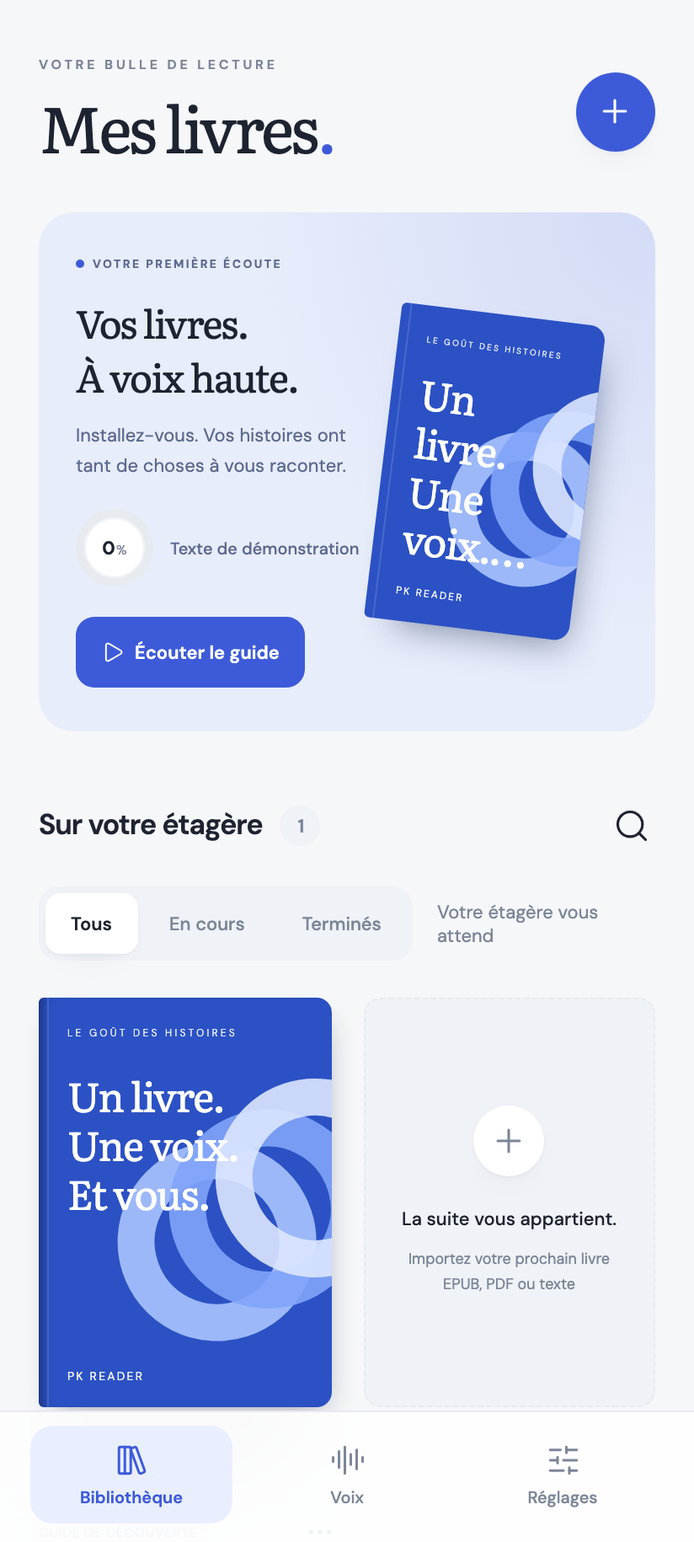
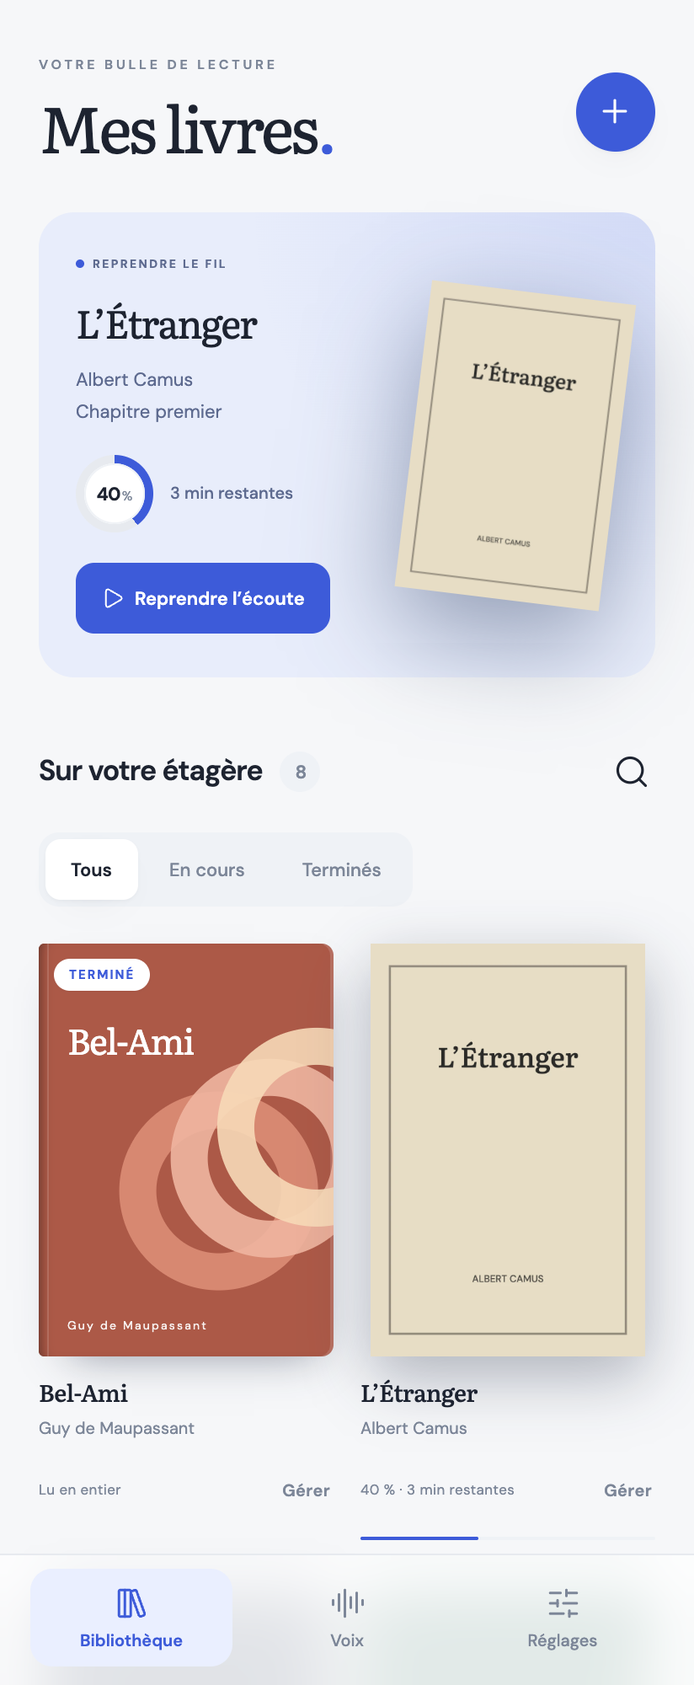
REFACTO: redessiner la bibliotheque et les couvertures importees

diff --git a/store/website/index.html b/store/website/index.html
@@ -13,7 +13,7 @@
 <nav class="nav"><a class="brand" href="#top"><img src="assets/icon.png" alt=""><span>PK Voice Cloner</span></a><div class="navlinks"><a href="#studio"><span class="fr">Le studio</span><span class="en">The studio</span></a><a href="#local"><span class="fr">Confidentialité</span><span class="en">Privacy</span></a><a href="#install"><span class="fr">Installation</span><span class="en">Install</span></a><a href="https://ko-fi.com/pouark" style="color:#b03a3a;font-weight:650">❤ <span class="fr">Soutenir sur Ko-fi</span><span class="en">Support on Ko-fi</span></a><button class="lang" type="button" data-lang="fr" aria-label="Français" aria-pressed="false">FR</button><button class="lang" type="button" data-lang="en" aria-label="English" aria-pressed="false">EN</button></div></nav>
 <main id="top"><header class="hero"><div class="eyebrow">macOS · Apple Silicon · Open source</div><h1><span class="fr">Ta voix.<br>À toi. En local.</span><span class="en">Your voice.<br>Yours. Local.</span></h1><p class="intro"><span class="fr">Enregistre ou importe une voix, écris ton texte, puis écoute le résultat. Le traitement s’effectue sur ton Mac.</span><span class="en">Record or import a voice, write your text, then listen. Processing runs on your Mac.</span></p><div class="actions"><a class="button" href="https://github.com/mondary/Macos_PKvoicecloner/releases/latest/download/PKVoiceCloner-2026.10.45.dmg"><span class="fr">Télécharger le DMG · v2026.10.45</span><span class="en">Download DMG · v2026.10.45</span> ↗</a><a class="button secondary" href="https://github.com/mondary/Macos_PKvoicecloner"><span class="fr">Voir le projet</span><span class="en">Explore the project</span></a></div><p class="note"><span class="fr">Apple Silicon · macOS 14+ · Le DMG v2026.10.45 contient l’app seule : son installation nécessite le dépôt et l’environnement Python. Voir la procédure ci-dessous.</span><span class="en">Apple Silicon · macOS 14+ · The v2026.10.45 DMG contains the app only; it requires the project checkout and Python environment. See setup below.</span></p><div class="demo"><img src="gifs/demo-large-1200.gif" alt="Démonstration du studio : bibliothèque vocale, génération et lecture du résultat" fetchpriority="high"></div></header>
 <section class="section" id="studio"><div class="section-head"><div class="overline"><span class="fr">Un studio, pas un service cloud</span><span class="en">A studio, not a cloud service</span></div><h2><span class="fr">De l’enregistrement à la voix générée.</span><span class="en">From recording to generated speech.</span></h2><p><span class="fr">Les étapes essentielles dans une interface macOS : bibliothèque vocale, textes, moteurs et génération.</span><span class="en">The essentials in a macOS interface: voice library, texts, engines and generation.</span></p></div><div class="features"><article class="feature"><b><span class="fr">Importe ou enregistre</span><span class="en">Import or record</span></b><p><span class="fr">Ajoute un fichier audio ou enregistre au micro.</span><span class="en">Add an audio file or record from your mic.</span></p></article><article class="feature"><b><span class="fr">Transcris et ajuste</span><span class="en">Transcribe and edit</span></b><p><span class="fr">Relis le texte reconnu avant de l’utiliser.</span><span class="en">Review the recognized text before using it.</span></p></article><article class="feature"><b><span class="fr">Choisis un moteur</span><span class="en">Choose an engine</span></b><p><span class="fr">Installe et sélectionne les modèles compatibles depuis le studio.</span><span class="en">Install and select supported models in the studio.</span></p></article><article class="feature"><b><span class="fr">Lire au fil de l’eau</span><span class="en">Live reading</span></b><p><span class="fr">Le bouton Lire fait entendre chaque phrase dès qu’elle est prête ; Générer produit la prise complète, exportable.</span><span class="en">One button plays each sentence as soon as it is ready; Generate produces the full, exportable take.</span></p></article></div><div class="screens"><figure><img src="screenshots/voix-reference@2x.png" alt="Bibliothèque de voix et référence audio" loading="lazy"><figcaption><span class="fr">Bibliothèque de voix</span><span class="en">Voice library</span></figcaption></figure><figure><img src="screenshots/generation-resultat@2x.png" alt="Texte, réglages de génération et lecteur audio" loading="lazy"><figcaption><span class="fr">Génération et écoute</span><span class="en">Generation and playback</span></figcaption></figure></div></section>
-<section class="section" id="reader"><div class="section-head"><div class="overline"><span class="fr">PK Reader · Android · 2026.10.73</span><span class="en">PK Reader · Android · 2026.10.73</span></div><h2><span class="fr">Un personnage. Une voix. C’est tout.</span><span class="en">One character. One voice. That’s all.</span></h2><p><span class="fr">Importe ton livre : les locuteurs sont repérés à partir d’indices de dialogue — incises, annonces, échanges nommés. Vérifie les passages attribués, puis valide les voix proposées. Sans Mac ni réseau.</span><span class="en">Import your book: speakers are identified from dialogue cues — attribution clauses, announcements, named exchanges. Review the assigned passages, then confirm the proposed voices. No Mac, no network.</span></p></div><div class="features"><article class="feature"><b><span class="fr">Tout préparer en un bouton</span><span class="en">One button prepares everything</span></b><p><span class="fr">« Préparer le livre audio » enchaîne l’analyse des personnages, le téléchargement des voix manquantes et la mise en cache du livre — dix voix françaises, dont une à 13 Mo.</span><span class="en">“Prepare the audiobook” chains character analysis, missing-voice downloads and offline caching — ten French voices, one of them 13 MB.</span></p></article><article class="feature"><b><span class="fr">Analyse IA sans Mac</span><span class="en">AI analysis without a Mac</span></b><p><span class="fr">Branchez votre fournisseur IA dans Réglages : le téléphone identifie les personnages, attribue les répliques puis relit les passages incertains. Sans configuration, le repérage local reste disponible.</span><span class="en">Connect your AI provider in Settings: the phone identifies characters, assigns lines and then reviews uncertain passages. Without configuration, local detection remains available.</span></p></article><article class="feature"><b><span class="fr">Des preuves de parole, pas des majuscules</span><span class="en">Speech evidence, not capital letters</span></b><p><span class="fr">Une majuscule ou un mot suivi de deux-points ne crée pas un personnage. Chaque rôle affiche un passage attribué à vérifier ; les passages incertains restent au narrateur.</span><span class="en">A capital letter or a word followed by a colon does not create a character. Each role shows an assigned passage to review; uncertain passages stay with the narrator.</span></p></article><article class="feature"><b><span class="fr">Les voix qui manquent</span><span class="en">The voices you need</span></b><p><span class="fr">Le bilan indique les timbres manquants et propose les téléchargements Piper disponibles. Tes choix manuels sont conservés.</span><span class="en">A summary lists missing timbres and offers available Piper downloads. Your manual choices are preserved.</span></p></article></div><p class="note"><span class="fr">Le repérage local reste heuristique : les dialogues ambigus peuvent rester au narrateur. L’analyse peut tourner dans le téléphone avec votre propre fournisseur IA, sans Mac. Mise à jour depuis l’app (Réglages → Mises à jour). APK de test, hors Google Play.</span><span class="en">Local detection stays rule-based: ambiguous dialogue may remain with the narrator. Analysis can run inside the phone with your own AI provider, no Mac. In-app updates (Settings → Updates). Testing APK, not on Google Play.</span></p></section>
+<section class="section" id="reader"><div class="section-head"><div class="overline"><span class="fr">PK Reader · Android · 2026.10.74</span><span class="en">PK Reader · Android · 2026.10.74</span></div><h2><span class="fr">Un personnage. Une voix. C’est tout.</span><span class="en">One character. One voice. That’s all.</span></h2><p><span class="fr">Importe ton livre : les locuteurs sont repérés à partir d’indices de dialogue — incises, annonces, échanges nommés. Vérifie les passages attribués, puis valide les voix proposées. Sans Mac ni réseau.</span><span class="en">Import your book: speakers are identified from dialogue cues — attribution clauses, announcements, named exchanges. Review the assigned passages, then confirm the proposed voices. No Mac, no network.</span></p></div><div class="features"><article class="feature"><b><span class="fr">Tout préparer en un bouton</span><span class="en">One button prepares everything</span></b><p><span class="fr">« Préparer le livre audio » enchaîne l’analyse des personnages, le téléchargement des voix manquantes et la mise en cache du livre — dix voix françaises, dont une à 13 Mo.</span><span class="en">“Prepare the audiobook” chains character analysis, missing-voice downloads and offline caching — ten French voices, one of them 13 MB.</span></p></article><article class="feature"><b><span class="fr">Analyse IA sans Mac</span><span class="en">AI analysis without a Mac</span></b><p><span class="fr">Branchez votre fournisseur IA dans Réglages : le téléphone identifie les personnages, attribue les répliques puis relit les passages incertains. Sans configuration, le repérage local reste disponible.</span><span class="en">Connect your AI provider in Settings: the phone identifies characters, assigns lines and then reviews uncertain passages. Without configuration, local detection remains available.</span></p></article><article class="feature"><b><span class="fr">Des preuves de parole, pas des majuscules</span><span class="en">Speech evidence, not capital letters</span></b><p><span class="fr">Une majuscule ou un mot suivi de deux-points ne crée pas un personnage. Chaque rôle affiche un passage attribué à vérifier ; les passages incertains restent au narrateur.</span><span class="en">A capital letter or a word followed by a colon does not create a character. Each role shows an assigned passage to review; uncertain passages stay with the narrator.</span></p></article><article class="feature"><b><span class="fr">Les voix qui manquent</span><span class="en">The voices you need</span></b><p><span class="fr">Le bilan indique les timbres manquants et propose les téléchargements Piper disponibles. Tes choix manuels sont conservés.</span><span class="en">A summary lists missing timbres and offers available Piper downloads. Your manual choices are preserved.</span></p></article></div><p class="note"><span class="fr">Le repérage local reste heuristique : les dialogues ambigus peuvent rester au narrateur. L’analyse peut tourner dans le téléphone avec votre propre fournisseur IA, sans Mac. Mise à jour depuis l’app (Réglages → Mises à jour). APK de test, hors Google Play.</span><span class="en">Local detection stays rule-based: ambiguous dialogue may remain with the narrator. Analysis can run inside the phone with your own AI provider, no Mac. In-app updates (Settings → Updates). Testing APK, not on Google Play.</span></p></section>
 <section class="section" id="local"><div class="privacy"><h2><span class="fr">Ta voix reste sur ton Mac.</span><span class="en">Your voice stays on your Mac.</span></h2><p><span class="fr">Les modèles s’exécutent localement sur Apple Silicon. Les poids nécessaires sont téléchargés lors de l’installation ou du premier usage ; ensuite, génération et bibliothèque restent locales. Utilise uniquement une voix avec le consentement de la personne concernée.</span><span class="en">Models run locally on Apple Silicon. Required model weights are downloaded during setup or first use; afterward, generation and the library stay local. Only use a voice with the speaker’s consent.</span></p></div></section>
 <section class="section" id="install"><div class="install"><div><div class="overline"><span class="fr">Installation vérifiée</span><span class="en">Verified setup</span></div><h2><span class="fr">Télécharge le projet et lance l’installation.</span><span class="en">Get the project and run setup.</span></h2><p><span class="fr">Le DMG publié actuellement n’est pas autonome : l’app cherche le dépôt et son environnement Python sur la machine. Cette commande prépare ces éléments et construit l’app.</span><span class="en">The currently published DMG is not standalone: the app expects the project checkout and Python environment on the machine. This command sets those up and builds the app.</span></p><a href="https://github.com/mondary/Macos_PKvoicecloner/releases" style="text-decoration:underline"><span class="fr">Voir les fichiers de la release</span><span class="en">View release assets</span></a></div><div class="installbox"><code id="command">curl -fsSL https://raw.githubusercontent.com/mondary/Macos_PKvoicecloner/main/install.sh | sh</code><button class="button" id="copy" type="button"><span class="fr">Copier la commande</span><span class="en">Copy command</span></button><p class="warn"><span class="fr">Homebrew : le cask <code>mondary/tap/pk-voice-cloner</code> existe, mais installe ce même DMG non autonome. Nous ne le présentons pas comme une installation fonctionnelle tant que le paquet n’est pas corrigé.</span><span class="en">Homebrew: the <code>mondary/tap/pk-voice-cloner</code> cask exists, but installs the same non-standalone DMG. We cannot present it as a working install until the package is fixed.</span></p></div></div></section>
 </main><footer class="foot"><span>PK Voice Cloner · <span class="fr">Studio vocal local pour macOS</span><span class="en">Local voice studio for macOS</span></span><span><a href="https://github.com/mondary/Macos_PKvoicecloner">GitHub</a> · <a href="https://ko-fi.com/pouark"><span class="fr">Soutenir sur Ko-fi</span><span class="en">Support on Ko-fi</span></a> · <span class="fr">Utilise une voix avec consentement.</span><span class="en">Use voices with consent.</span></span></footer>

diff --git a/src/mobile/style.css b/src/mobile/style.css
@@ -176,8 +176,11 @@ h1, h2, h3, p { margin: 0; }
 .book-cover {
   height: 230px; aspect-ratio: 2 / 3; overflow: hidden; position: relative;
   display: flex; flex-direction: column; align-items: flex-start; padding: 20px 20px 17px;
-  color: #fff; border-radius: 3px 9px 9px 3px; text-align: left;
-  box-shadow: inset 6px 0 7px -5px rgba(0, 0, 0, 0.5), 3px 8px 18px -8px rgba(23, 33, 58, 0.42);
+  color: #fff; border-radius: 3px 7px 7px 3px; text-align: left;
+  box-shadow:
+    inset 6px 0 7px -5px rgba(0, 0, 0, 0.45),
+    inset -2px 0 0 rgba(255, 255, 255, 0.14),
+    4px 12px 26px -14px rgba(23, 33, 58, 0.5);
   background: #254dcc; transition: transform 0.28s cubic-bezier(0.22, 0.61, 0.36, 1), box-shadow 0.28s ease;
 }
 .book-cover::after { content: ''; position: absolute; left: 5px; top: 0; bottom: 0; width: 1px; background: rgba(255, 255, 255, 0.14); }
@@ -205,9 +208,20 @@ h1, h2, h3, p { margin: 0; }
 .cover-4 .cover-art b { border-color: #dc8d76; }
 .cover-4 .cover-art b:nth-child(2) { border-color: #efb5a0; }
 .cover-4 .cover-art b:nth-child(3) { border-color: #f7d9b7; }
-.image-cover { padding: 0; background: var(--surface, #fff); }
-.image-cover img { width: 100%; height: 100%; object-fit: contain; background: var(--surface, #fff); }
+.image-cover {
+  padding: 0; background: transparent; overflow: visible;
+  border-radius: 2px; box-shadow: none;
+}
+.image-cover::after { display: none; }
+.image-cover img {
+  display: block; position: absolute; inset: 0; width: 100%; height: 100%; object-fit: contain;
+  border-radius: 2px; background: transparent;
+  filter: drop-shadow(0 12px 18px rgba(23, 33, 58, 0.32));
+  transition: transform 0.28s cubic-bezier(0.22, 0.61, 0.36, 1), filter 0.28s ease;
+}
 .hero-cover { height: 258px; box-shadow: 14px 20px 34px -14px rgba(36, 54, 91, 0.55); }
+.hero-cover.image-cover { box-shadow: none; }
+.hero-cover.image-cover img { filter: drop-shadow(0 22px 30px rgba(36, 54, 91, 0.45)); }
 .hero-cover .cover-title { font-size: 29px; }
 .hero-cover .cover-art { bottom: 42px; }
 
@@ -223,27 +237,35 @@ h1, h2, h3, p { margin: 0; }
 .segmented button.active { background: var(--surface); color: var(--ink); box-shadow: var(--shadow-1); font-weight: 600; }
 .library-count { font-size: 11px; color: var(--muted); }
 
-.books-grid { display: grid; grid-template-columns: repeat(auto-fill, minmax(150px, 1fr)); gap: 32px 26px; }
+.books-grid { display: grid; grid-template-columns: repeat(auto-fill, minmax(168px, 1fr)); gap: 40px 28px; align-items: start; }
 @keyframes rise { from { opacity: 0; transform: translateY(12px); } }
 .book-item { min-width: 0; position: relative; animation: rise 0.5s cubic-bezier(0.22, 0.61, 0.36, 1) both; animation-delay: calc(var(--i, 0) * 45ms); }
 .book-open { text-align: left; padding: 0; width: 100%; }
-.book-open .book-cover { width: 100%; height: auto; max-height: 300px; min-height: 216px; }
-.book-open:hover .book-cover { transform: translateY(-4px); box-shadow: inset 6px 0 7px -5px rgba(0, 0, 0, 0.5), 5px 16px 26px -12px rgba(23, 33, 58, 0.5); }
-.book-open > strong { display: block; font-size: 13px; font-weight: 600; margin-top: 14px; line-height: 1.5; white-space: nowrap; overflow: hidden; text-overflow: ellipsis; }
-.book-open > span { display: block; font-size: 11px; color: var(--muted); margin-top: 4px; white-space: nowrap; overflow: hidden; text-overflow: ellipsis; }
-.book-flag { position: absolute; top: 10px; left: -6px; z-index: 2; background: var(--surface); color: var(--accent); font-size: 8px; font-weight: 700; letter-spacing: 0.8px; text-transform: uppercase; padding: 5px 8px; border-radius: 7px; box-shadow: var(--shadow-1); }
-.book-bottom { display: flex; align-items: center; justify-content: space-between; gap: 3px; margin-top: 4px; }
-.book-bottom > span { font-size: 9px; color: var(--muted); letter-spacing: 0.3px; font-variant-numeric: tabular-nums; }
+.book-open .book-cover { width: 100%; height: auto; max-height: 320px; min-height: 246px; }
+.book-open:hover .book-cover { transform: translateY(-5px); box-shadow: inset 6px 0 7px -5px rgba(0, 0, 0, 0.45), inset -2px 0 0 rgba(255, 255, 255, 0.14), 8px 22px 34px -16px rgba(23, 33, 58, 0.58); }
+.book-open:hover .image-cover { transform: none; box-shadow: none; }
+.book-open:hover .image-cover img { transform: translateY(-5px); filter: drop-shadow(0 20px 28px rgba(23, 33, 58, 0.42)); }
+.book-open > strong { display: -webkit-box; -webkit-line-clamp: 2; -webkit-box-orient: vertical; overflow: hidden; font-family: 'Literata', serif; font-size: 15px; font-weight: 500; letter-spacing: -0.25px; margin-top: 15px; line-height: 1.38; transition: color 0.18s; }
+.book-open:hover > strong { color: var(--accent); }
+.book-open > span { display: block; font-size: 10.5px; color: var(--muted); margin-top: 5px; white-space: nowrap; overflow: hidden; text-overflow: ellipsis; }
+.book-flag { position: absolute; top: 9px; left: 9px; z-index: 2; background: var(--surface); color: var(--accent); font-size: 7.5px; font-weight: 700; letter-spacing: 1px; text-transform: uppercase; padding: 5px 9px; border-radius: 999px; box-shadow: var(--shadow-1); }
+.book-bottom { display: flex; align-items: center; justify-content: space-between; gap: 8px; margin-top: 7px; }
+.book-bottom > span { font-size: 9.5px; color: var(--muted); letter-spacing: 0.2px; font-variant-numeric: tabular-nums; white-space: nowrap; overflow: hidden; text-overflow: ellipsis; }
 .book-bottom .icon-button { width: 32px; height: 36px; margin-right: -9px; }
-.book-bottom .book-manage { margin-right: -4px; }
+.book-bottom .book-manage { flex: none; margin-right: -6px; padding: 5px 7px; border-color: transparent; background: transparent; color: var(--muted); font-size: 10px; letter-spacing: 0.2px; border-radius: 8px; }
+.book-bottom .book-manage:hover { background: var(--accent-soft); color: var(--accent); }
 .book-bottom svg { width: 18px; }
-.book-progress { height: 3px; background: var(--line); border-radius: 4px; overflow: hidden; margin-top: 6px; }
-.book-progress span { display: block; height: 100%; background: var(--accent); border-radius: 4px; }
-.import-tile { border: 1px dashed var(--line); border-radius: var(--radius-1); display: flex; flex-direction: column; align-items: center; justify-content: center; align-self: start; min-height: 216px; aspect-ratio: 2 / 3; max-height: 300px; padding: 18px; text-align: center; background: var(--line-soft); width: 100%; }
-.import-tile > span { width: 42px; height: 42px; display: grid; place-items: center; background: var(--surface); border-radius: 50%; margin-bottom: 17px; color: var(--muted); box-shadow: var(--shadow-1); }
-.import-tile strong { font-size: 12px; font-weight: 500; line-height: 1.6; }
-.import-tile small { font-size: 10px; line-height: 1.7; color: var(--muted); margin-top: 7px; }
-.empty-state { padding: 30px 0; color: var(--muted); font-size: 14px; }
+.book-progress { height: 2px; background: var(--line-soft); border-radius: 999px; overflow: hidden; margin-top: 8px; }
+.book-progress span { display: block; height: 100%; background: var(--accent); border-radius: 999px; transition: width 0.5s cubic-bezier(0.22, 0.61, 0.36, 1); }
+.import-tile { border: 1px dashed var(--line); border-radius: var(--radius-1); display: flex; flex-direction: column; align-items: center; justify-content: center; align-self: start; min-height: 246px; aspect-ratio: 2 / 3; max-height: 320px; padding: 18px; text-align: center; width: 100%; background: linear-gradient(180deg, var(--line-soft), transparent 72%); transition: transform 0.28s cubic-bezier(0.22, 0.61, 0.36, 1), border-color 0.18s, background 0.18s; }
+.import-tile:hover { transform: translateY(-4px); border-color: var(--accent); background: linear-gradient(180deg, var(--accent-soft), transparent 72%); }
+.import-tile > span { width: 44px; height: 44px; display: grid; place-items: center; background: var(--surface); border-radius: 50%; margin-bottom: 17px; color: var(--accent); box-shadow: var(--shadow-1); }
+.import-tile strong { font-family: 'Literata', serif; font-size: 14px; font-weight: 500; line-height: 1.45; letter-spacing: -0.2px; }
+.import-tile small { font-size: 10px; line-height: 1.7; color: var(--muted); margin-top: 8px; }
+.empty-state { display: grid; justify-items: center; gap: 8px; padding: 46px 24px; margin-top: 4px; border: 1px solid var(--line); border-radius: var(--radius-2); background: var(--surface); color: var(--muted); text-align: center; }
+.empty-state > svg { width: 30px; height: 30px; color: var(--accent); margin-bottom: 6px; }
+.empty-state strong { color: var(--ink); font-family: 'Literata', serif; font-size: 17px; font-weight: 500; letter-spacing: -0.3px; }
+.empty-state span { font-size: 12px; line-height: 1.7; }
 .search-row { display: none; margin-bottom: 24px; align-items: center; gap: 10px; }
 .search-row.expanded { display: flex; }
 .search-row input { width: 100%; background: var(--surface); }
@@ -517,18 +539,19 @@ dialog header .icon-button { width: 38px; height: 38px; }
   .section-heading .icon-button { margin-right: -8px; }
   .library-tools { margin-bottom: 22px; }
   .segmented button { padding: 8px 15px; font-size: 11px; min-height: 36px; }
-  .books-grid { grid-template-columns: repeat(2, minmax(0, 1fr)); gap: 26px 19px; }
+  .books-grid { grid-template-columns: repeat(2, minmax(0, 1fr)); gap: 30px 16px; }
   .book-open .book-cover { max-height: none; min-height: 0; height: auto; aspect-ratio: 2 / 2.8; }
   .book-cover { padding: 17px 17px 14px; }
-  .book-cover .cover-title { font-size: 24px; }
+  .book-cover .cover-title { font-size: 21px; }
   .import-tile { min-height: 0; max-height: none; aspect-ratio: 2 / 2.8; padding: 16px 10px; }
-  .import-tile strong { font-size: 11px; }
+  .import-tile strong { font-size: 12.5px; }
   .import-tile small { font-size: 9px; }
   .privacy-note { margin-top: 30px; font-size: 10px; gap: 10px; }
   .privacy-note span { font-size: 9px; }
-  .book-open > strong { font-size: 12px; margin-top: 12px; }
+  .book-open > strong { font-size: 14px; margin-top: 12px; }
   .book-open > span { font-size: 10px; }
-  .book-bottom > span { font-size: 8px; }
+  .book-bottom { margin-top: 5px; }
+  .book-bottom > span { font-size: 8.5px; }
   .voice-intro { padding: 28px 22px; gap: 25px; margin-bottom: 24px; }
   .voice-orbit { width: 74px; height: 74px; box-shadow: 0 0 0 10px var(--orbit-1), 0 0 0 20px var(--orbit-2); }
   .voice-orbit svg { width: 40px; height: 40px; }

diff --git a/src/mobile/main.ts b/src/mobile/main.ts
@@ -174,6 +174,7 @@ function miniPlayer() {
 
 function libraryView() {
   const real = books.filter(b => !b.sample);
+  const enCours = real.filter(b => b.position > 0 && !b.completed).length;
   const resume = [...books].sort((a, b) => b.opened - a.opened)[0];
   const filtered = books.filter(b => (filter === 'all' || (filter === 'reading' && b.position > 0 && !b.completed) || (filter === 'finished' && b.completed)) && `${b.title} ${b.author}`.toLowerCase().includes(search.toLowerCase()));
   return `<header class="page-heading"><div><p class="eyebrow">VOTRE BULLE DE LECTURE</p><h1>Mes livres<span>.</span></h1></div><button class="add-button" data-action="import" aria-label="Importer un livre">${icon('plus')}<span>Ajouter un livre</span></button></header>
@@ -185,10 +186,10 @@ function libraryView() {
       <button class="primary" data-action="listen" data-id="${resume.id}">${icon('play')} ${resume.completed?'Réécouter':resume.opened?'Reprendre l’écoute':'Écouter le guide'}</button></div>
     <button class="hero-book" data-action="open" data-id="${resume.id}" aria-label="Ouvrir ${esc(resume.title.replace(/\n/g,' '))}">${cover(resume,'hero-cover')}</button></section>` : ''}
   <section class="library-section"><div class="section-heading"><h2>Sur votre étagère <span class="count">${books.length}</span></h2>${iconButton('search','Rechercher un livre','search')}</div>
-  <div class="library-tools"><div class="segmented" role="group" aria-label="Filtrer les livres">${[['all','Tous'],['reading','En cours'],['finished','Terminés']].map(([id,label]) => `<button data-action="filter" data-id="${id}" class="${filter===id?'active':''}" aria-pressed="${filter===id}">${label}</button>`).join('')}</div><span class="library-count">${real.length ? `${real.length} livre${real.length>1?'s':''}` : 'Votre étagère vous attend'}</span></div>
+  <div class="library-tools"><div class="segmented" role="group" aria-label="Filtrer les livres">${[['all','Tous'],['reading','En cours'],['finished','Terminés']].map(([id,label]) => `<button data-action="filter" data-id="${id}" class="${filter===id?'active':''}" aria-pressed="${filter===id}">${label}</button>`).join('')}</div><span class="library-count">${real.length ? `${real.length} livre${real.length>1?'s':''}${enCours ? ` · ${enCours} en cours` : ''}` : 'Votre étagère vous attend'}</span></div>
   <div class="search-row ${search?'expanded':''}" id="search-row"><label class="sr-only" for="search">Rechercher dans la bibliothèque</label>${icon('search')}<input id="search" type="search" placeholder="Un titre, un auteur…" value="${esc(search)}" autocomplete="off" /></div>
-  <div class="books-grid">${filtered.map((b, i) => `<article class="book-item" style="--i:${Math.min(i, 12)}">${b.completed?`<span class="book-flag">Terminé</span>`:''}<button class="book-open" data-action="open" data-id="${b.id}">${cover(b)}<strong>${esc(b.title.replace(/\n/g,' '))}</strong><span>${esc(b.author)}</span></button><div class="book-bottom"><span>${b.completed?'Lu en entier':b.position>0?`${percent(b)} % · ${minutes(b)} restantes`:b.sample?'GUIDE DE DÉCOUVERTE':b.format}</span><button class="book-manage" data-action="book-settings" data-id="${b.id}" aria-label="Gérer ${esc(b.title.replace(/\n/g,' '))}">Gérer</button></div>${b.position>0?`<div class="book-progress"><span style="width:${percent(b)}%"></span></div>`:''}</article>`).join('')}${filter==='all'&&!search?`<button class="import-tile" data-action="import"><span>${icon('plus')}</span><strong>La suite vous appartient.</strong><small>Importez votre prochain livre<br>EPUB, PDF ou texte</small></button>`:''}</div>
-  ${!filtered.length?'<div class="empty-state">Aucun livre ici pour le moment.</div>':''}</section>
+  <div class="books-grid">${filtered.map((b, i) => `<article class="book-item" style="--i:${Math.min(i, 12)}">${b.completed && !b.cover?`<span class="book-flag">Terminé</span>`:''}<button class="book-open" data-action="open" data-id="${b.id}">${cover(b)}<strong>${esc(b.title.replace(/\n/g,' '))}</strong><span>${esc(b.author)}</span></button><div class="book-bottom"><span>${b.completed?'Lu en entier':b.position>0?`${percent(b)} % · ${minutes(b)} restantes`:b.sample?'GUIDE DE DÉCOUVERTE':b.format}</span><button class="book-manage" data-action="book-settings" data-id="${b.id}" aria-label="Gérer ${esc(b.title.replace(/\n/g,' '))}">Gérer</button></div>${b.position>0 && !b.completed?`<div class="book-progress"><span style="width:${percent(b)}%"></span></div>`:''}</article>`).join('')}${filter==='all'&&!search?`<button class="import-tile" data-action="import"><span>${icon('plus')}</span><strong>La suite vous appartient.</strong><small>Importez votre prochain livre<br>EPUB, PDF ou texte</small></button>`:''}</div>
+  ${!filtered.length && (search || filter !== 'all') ? `<div class="empty-state">${icon('library-big')}<strong>${search ? 'Aucun livre ne correspond.' : 'Rien sur cette étagère.'}</strong><span>${search ? 'Essayez un autre titre ou le nom de l’auteur.' : 'Changez de filtre pour retrouver vos livres.'}</span></div>` : ''}</section>
   <div class="privacy-note">${icon('lock-keyhole')}<p>Votre bibliothèque, sur votre appareil.<br><span>Sans compte. Sans publicité. Juste vos livres.</span></p></div>
   ${real.some(b => b.casting) ? `<section class="settings-section"><h2>Les voix de vos livres</h2>${real.filter(b => b.casting).map(b => {
     const missing = besoinsVoix(b.casting!, [...voices, ...models], b.language).missing.length;

diff --git a/store/description-store.md b/store/description-store.md
@@ -23,11 +23,11 @@ pas autonomes et nécessitent encore le dépôt et son environnement Python.
 
 ## Assets
 
-### PK Reader Android — 2026.10.73
+### PK Reader Android — 2026.10.74
 
-**FR** — Importe un livre, valide une voix par personnage. Les locuteurs sont repérés **sur le téléphone** — avec votre propre fournisseur IA (adresse, modèle, clé chiffrée dans Android Keystore) ou, sans configuration, par indices de dialogue. L'IA identifie les personnages qui parlent, attribue chaque réplique puis relit les passages incertains : la qualité du studio sans Mac. Une majuscule suivie de deux-points ne crée pas un personnage ; les passages ambigus restent au narrateur. Le bilan indique les voix manquantes et propose leurs téléchargements Piper. **Mise à jour depuis l'app** : Réglages → Mises à jour télécharge l'APK et ouvre l'installateur, avec une clé de signature permanente. APK 2026.10.73 (release `pk-2026.10.73`).
+**FR** — Importe un livre, valide une voix par personnage. Les locuteurs sont repérés **sur le téléphone** — avec votre propre fournisseur IA (adresse, modèle, clé chiffrée dans Android Keystore) ou, sans configuration, par indices de dialogue. L'IA identifie les personnages qui parlent, attribue chaque réplique puis relit les passages incertains : la qualité du studio sans Mac. Une majuscule suivie de deux-points ne crée pas un personnage ; les passages ambigus restent au narrateur. Le bilan indique les voix manquantes et propose leurs téléchargements Piper. **Mise à jour depuis l'app** : Réglages → Mises à jour télécharge l'APK et ouvre l'installateur, avec une clé de signature permanente. APK 2026.10.74 (release `pk-2026.10.74`).
 
-**EN** — Import a book, confirm one voice per character. Speakers are identified **on the phone** — with your own AI provider (URL, model, key encrypted in Android Keystore) or, without configuration, from dialogue cues. The AI identifies speaking characters, assigns every line and then reviews uncertain passages: studio quality without a Mac. A capital letter followed by a colon does not create a character; ambiguous passages stay with the narrator. A summary lists missing voices and offers Piper downloads. **In-app updates**: Settings → Updates downloads the APK and opens the installer, with a permanent signing key. APK 2026.10.73 (release `pk-2026.10.73`).
+**EN** — Import a book, confirm one voice per character. Speakers are identified **on the phone** — with your own AI provider (URL, model, key encrypted in Android Keystore) or, without configuration, from dialogue cues. The AI identifies speaking characters, assigns every line and then reviews uncertain passages: studio quality without a Mac. A capital letter followed by a colon does not create a character; ambiguous passages stay with the narrator. A summary lists missing voices and offers Piper downloads. **In-app updates**: Settings → Updates downloads the APK and opens the installer, with a permanent signing key. APK 2026.10.74 (release `pk-2026.10.74`).
 
 Capture mobile : `store/screenshots/android-reader/casting.png` — véritable interface web (rendue par le code de production), texte fictif, repérage local. Les voix système de l’aperçu navigateur ne représentent pas le catalogue d’un téléphone Android.
 

diff --git a/docs/ANDROID.md b/docs/ANDROID.md
@@ -4,7 +4,7 @@ PK Reader est l’application de lecture personnelle du projet. Elle importe des
 
 ## Installer
 
-Le workflow **Android Reader** construit un APK de développement pour Android 8+ en ARM64 et x86_64. À chaque build réussi, l’APK est publié sur la release `pk-<version>` : lien direct `https://github.com/mondary/Macos_PKvoicecloner/releases/download/pk-<version>/PK-Reader-<version>-debug.apk` — par exemple `https://github.com/mondary/Macos_PKvoicecloner/releases/download/pk-2026.10.73/PK-Reader-2026.10.73-debug.apk`. Le badge **Latest** est réservé à la dernière livraison Android ; les DMG restent accessibles dans leurs releases `v…`. Les notes de la release reprennent la section correspondante du changelog Android. L’artefact CI du même nom reste disponible. Ce paquet sert aux essais ; il n’est pas publié sur Google Play.
+Le workflow **Android Reader** construit un APK de développement pour Android 8+ en ARM64 et x86_64. À chaque build réussi, l’APK est publié sur la release `pk-<version>` : lien direct `https://github.com/mondary/Macos_PKvoicecloner/releases/download/pk-<version>/PK-Reader-<version>-debug.apk` — par exemple `https://github.com/mondary/Macos_PKvoicecloner/releases/download/pk-2026.10.74/PK-Reader-2026.10.74-debug.apk`. Le badge **Latest** est réservé à la dernière livraison Android ; les DMG restent accessibles dans leurs releases `v…`. Les notes de la release reprennent la section correspondante du changelog Android. L’artefact CI du même nom reste disponible. Ce paquet sert aux essais ; il n’est pas publié sur Google Play.
 
 **Vérifier la version** — le même numéro se lit partout : nom du fichier APK, nom de l’artefact GitHub, écran Android **Paramètres → Applications → PK Reader**, et dans l’app en bas de la bibliothèque et dans **Réglages → À propos**. Le workflow refuse un APK dont le `versionName` ne correspond pas à ce numéro.
 

diff --git a/README.md b/README.md
@@ -2,7 +2,7 @@
 
 [🇫🇷 FR](README.md) · [🇬🇧 EN](README_en.md)
 
-version **2026.10.81** · macOS Apple Silicon · Apache-2.0 · [Changelog](CHANGELOG.md)
+version **2026.10.82** · macOS Apple Silicon · Apache-2.0 · [Changelog](CHANGELOG.md)
 
 📱 **Android** — [télécharger l’APK](https://github.com/mondary/Macos_PKvoicecloner/releases/latest/download/PK-Reader-latest.apk) (lien stable qui suit la dernière version) · 🍎 **macOS** — [DMG 2026.10.66](https://github.com/mondary/Macos_PKvoicecloner/releases/tag/v2026.10.66)
 
@@ -20,7 +20,7 @@ L’application Android **PK Reader** lit vos EPUB, PDF texte et TXT avec les vo
 
 **Mise à jour depuis l'app (Android 2026.10.61)** — Réglages → **Mises à jour** : PK Reader vérifie les releases GitHub, télécharge l'APK, contrôle son empreinte et sa signature, puis ouvre l'installateur Android. Plus besoin de passer par le navigateur ni par le dossier Téléchargements. La clé de signature est désormais **permanente** : après une dernière réinstallation pour les versions ≤ 2026.10.60, les mises à jour s'installent par-dessus l'app et conservent la bibliothèque.
 
-[Installation et guide Android](docs/ANDROID.md) · [APK de la version courante](https://github.com/mondary/Macos_PKvoicecloner/releases/tag/pk-2026.10.73) (release `pk-<version>`, lien direct) · [Changelog Android](src/mobile/CHANGELOG.md)
+[Installation et guide Android](docs/ANDROID.md) · [APK de la version courante](https://github.com/mondary/Macos_PKvoicecloner/releases/tag/pk-2026.10.74) (release `pk-<version>`, lien direct) · [Changelog Android](src/mobile/CHANGELOG.md)
 
 > Les APK vivent dans les releases `pk-<version>` (la plus récente en tête de la page des releases). Le badge **Latest** suit la dernière livraison publiée, Android ou macOS : il peut pointer sur le DMG sans que l'APK disparaisse — le lien direct ci-dessus reste valable.
 

diff --git a/README_en.md b/README_en.md
@@ -2,7 +2,7 @@
 
 [🇫🇷 FR](README.md) · [🇬🇧 EN](README_en.md)
 
-version **2026.10.81** · macOS Apple Silicon · Apache-2.0 · [Changelog](CHANGELOG.md)
+version **2026.10.82** · macOS Apple Silicon · Apache-2.0 · [Changelog](CHANGELOG.md)
 
 📱 **Android** — [download the APK](https://github.com/mondary/Macos_PKvoicecloner/releases/latest/download/PK-Reader-latest.apk) (stable link following the latest version) · 🍎 **macOS** — [DMG 2026.10.66](https://github.com/mondary/Macos_PKvoicecloner/releases/tag/v2026.10.66)
 
@@ -20,7 +20,7 @@ The **PK Reader** Android app reads EPUB, text PDFs and TXT using Android voices
 
 **In-app updates (Android 2026.10.61)** — Settings → **Updates**: PK Reader checks GitHub releases, downloads the APK, verifies its digest and signature, then opens the Android installer. No more browser or Downloads folder. The signing key is now **permanent**: after one last reinstall for versions ≤ 2026.10.60, updates install over the app and keep the library.
 
-[Android installation and guide (French)](docs/ANDROID.md) · [Current APK](https://github.com/mondary/Macos_PKvoicecloner/releases/tag/pk-2026.10.73) (`pk-<version>` release, direct link) · [Android changelog](src/mobile/CHANGELOG.md)
+[Android installation and guide (French)](docs/ANDROID.md) · [Current APK](https://github.com/mondary/Macos_PKvoicecloner/releases/tag/pk-2026.10.74) (`pk-<version>` release, direct link) · [Android changelog](src/mobile/CHANGELOG.md)
 
 > APKs live in `pk-<version>` releases (newest first on the releases page). The **Latest** badge follows the last published release, Android or macOS: it may point at the DMG without the APK disappearing — the direct link above stays valid.
 

diff --git a/src/mobile/ROADMAP.md b/src/mobile/ROADMAP.md
@@ -1,6 +1,6 @@
 # PK Reader — feuille de route lecteur
 
-Retours des 21 au 25/10. État des sources au 2026.10.73.
+Retours des 21 au 25/10. État des sources au 2026.10.74.
 
 ## Fait
 
@@ -26,6 +26,7 @@ Retours des 21 au 25/10. État des sources au 2026.10.73.
 - Page « Gérer le livre » à la place du menu ⋯ : bouton visible dans la bibliothèque et le lecteur, actions expliquées une par une, état de préparation sur place — 2026.10.69.
 - Configuration IA guidée : fournisseur (GLM/Z.ai, DeepSeek, OpenAI, Mistral, Groq, OpenRouter), adresse et page de clés pré-remplies, liste des modèles chargée depuis le fournisseur — 2026.10.70.
 - OpenCode Zen et OpenCode Go ajoutés aux fournisseurs IA guidés — 2026.10.71 ; session OpenCode Go et modèles gratuits masqués — 2026.10.73.
+- Bibliothèque repensée et couvertures importées au contour réel, sans cadre — 2026.10.74.
 
 ## Reste
 

diff --git a/src/mobile/CHANGELOG.md b/src/mobile/CHANGELOG.md
@@ -1,5 +1,12 @@
 # PK Reader Android
 
+## [2026.10.74] - 2026-10-25
+
+### Changed
+- **Bibliothèque repensée** : couvertures plus grandes, titres en Literata sur deux lignes, métadonnées plus lisibles, barre de progression fine, badge « Terminé » repensé et bouton « Gérer » discret.
+- **Couvertures importées** : plus de cadre, de tranche factice ni de fond blanc ; l’image garde son contour et sa proportion réels, avec une ombre qui suit l’image. Les couvertures générées conservent leur reliure.
+- État vide illustré, tuile d’importation plus douce, compteur « X livres · Y en cours ».
+
 ## [2026.10.73] - 2026-10-25
 
 ### Fixed

diff --git a/CHANGELOG.md b/CHANGELOG.md
@@ -1,6 +1,11 @@
 # Changelog
 Keep a Changelog — https://keepachangelog.com
 
+## [2026.10.82] - 2026-10-25
+
+### Changed
+- **PK Reader Android 2026.10.74** : bibliothèque repensée (couvertures et titres plus grands, métadonnées affinées, progression fine) et couvertures importées sans cadre, au contour réel de l’image.
+
 ## [2026.10.81] - 2026-10-25
 
 ### Fixed
